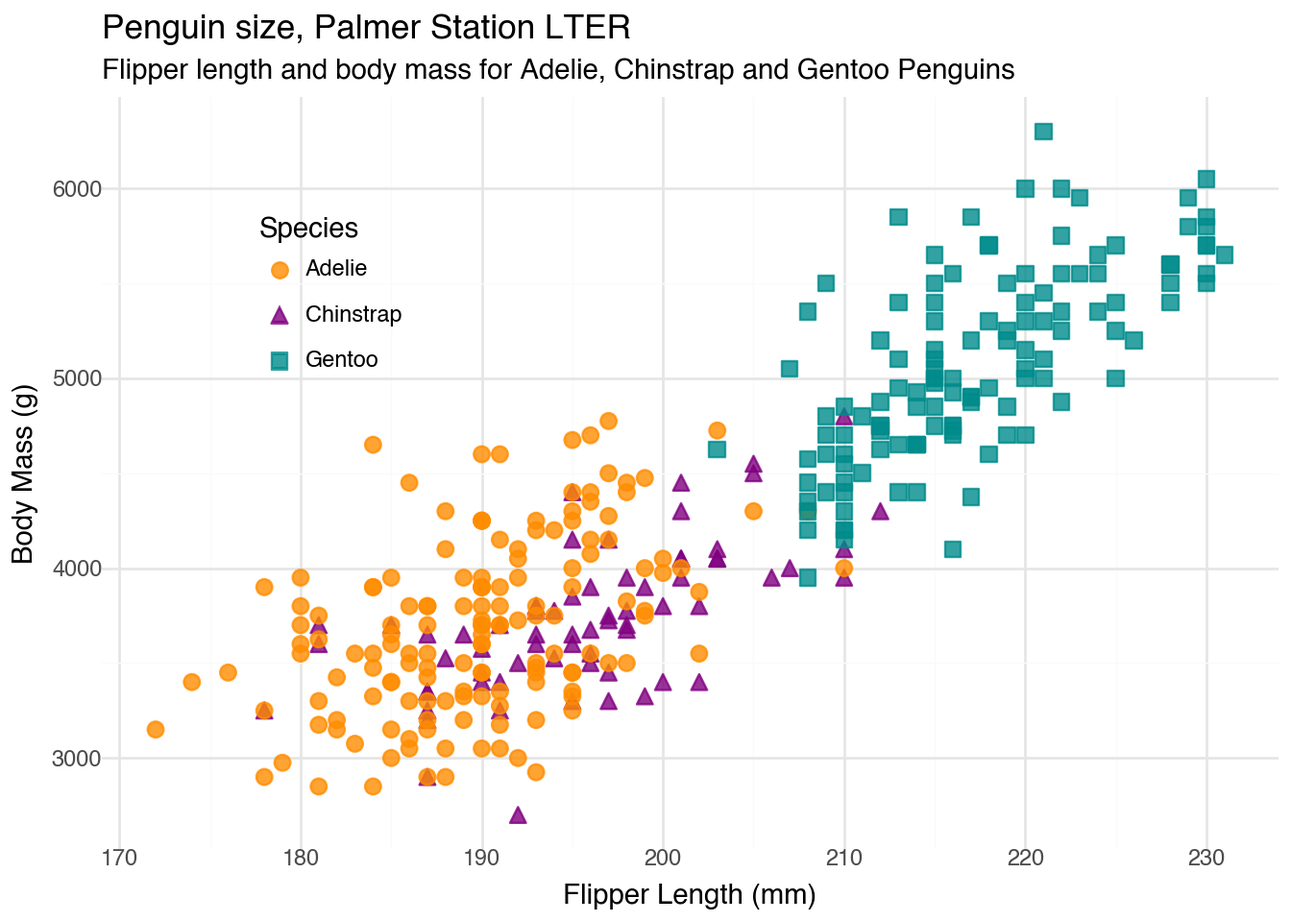
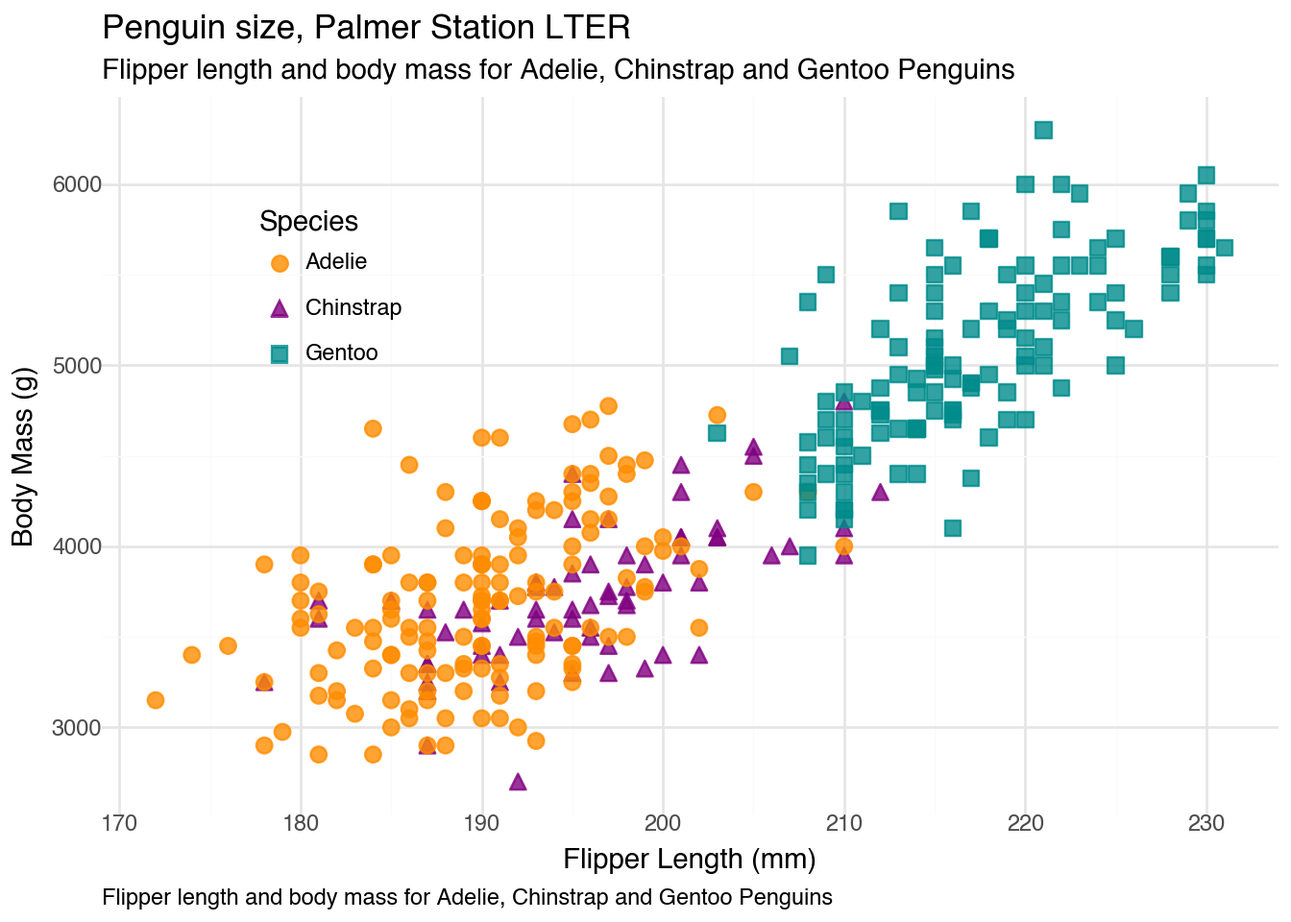
add caption

diff --git a/2025-04-15/pt_2025-04-15.html b/2025-04-15/pt_2025-04-15.html
@@ -117,7 +117,7 @@ pre > code.sourceCode > span > a:first-child::before { text-decoration: underlin
 </section>
 <section id="set-up" class="level2">
 <h2 class="anchored" data-anchor-id="set-up">Set up</h2>
-<div id="6e7057f7" class="cell" data-execution_count="1">
+<div id="fecdaa7f" class="cell" data-execution_count="1">
 <div class="sourceCode cell-code" id="cb1"><pre class="sourceCode python code-with-copy"><code class="sourceCode python"><span id="cb1-1"><a href="#cb1-1" aria-hidden="true" tabindex="-1"></a><span class="co"># import required libraries</span></span>
 <span id="cb1-2"><a href="#cb1-2" aria-hidden="true" tabindex="-1"></a><span class="im">import</span> os</span>
 <span id="cb1-3"><a href="#cb1-3" aria-hidden="true" tabindex="-1"></a><span class="im">import</span> PyDyTuesday</span>
@@ -140,7 +140,7 @@ pre > code.sourceCode > span > a:first-child::before { text-decoration: underlin
 <li><code>readme.md</code>: README file with information about this week’s data.</li>
 </ul>
 <p>The data dictionary is located <a href="https://github.com/rfordatascience/tidytuesday/blob/main/data/2025/2025-04-15/readme.md#data-dictionary">here</a></p>
-<div id="14fa687f" class="cell" data-execution_count="2">
+<div id="114e1dc4" class="cell" data-execution_count="2">
 <div class="sourceCode cell-code" id="cb2"><pre class="sourceCode python code-with-copy"><code class="sourceCode python"><span id="cb2-1"><a href="#cb2-1" aria-hidden="true" tabindex="-1"></a><span class="co"># Download files from the week, which you can then read in locally</span></span>
 <span id="cb2-2"><a href="#cb2-2" aria-hidden="true" tabindex="-1"></a>PyDyTuesday.get_date(<span class="st">'2025-04-15'</span>)</span>
 <span id="cb2-3"><a href="#cb2-3" aria-hidden="true" tabindex="-1"></a></span>
@@ -155,59 +155,59 @@ readme.md downloaded</code></pre>
 </div>
 </div>
 <p>Let’s take a peak at <code>penguins.csv</code>:</p>
-<div id="07315d5a" class="cell" data-execution_count="3">
+<div id="cec2d9a2" class="cell" data-execution_count="3">
 <div class="sourceCode cell-code" id="cb4"><pre class="sourceCode python code-with-copy"><code class="sourceCode python"><span id="cb4-1"><a href="#cb4-1" aria-hidden="true" tabindex="-1"></a>(</span>
 <span id="cb4-2"><a href="#cb4-2" aria-hidden="true" tabindex="-1"></a>    GT(df.head())</span>
 <span id="cb4-3"><a href="#cb4-3" aria-hidden="true" tabindex="-1"></a>    .tab_header(title<span class="op">=</span><span class="st">"Penguins"</span>)</span>
 <span id="cb4-4"><a href="#cb4-4" aria-hidden="true" tabindex="-1"></a>    .fmt_number(columns<span class="op">=</span>[<span class="st">"bill_len"</span>, <span class="st">"bill_dep"</span>, <span class="st">"flipper_len"</span>])</span>
 <span id="cb4-5"><a href="#cb4-5" aria-hidden="true" tabindex="-1"></a>)</span></code><button title="Copy to Clipboard" class="code-copy-button"><i class="bi"></i></button></pre></div>
 <div class="cell-output cell-output-display" data-execution_count="8">
-<div id="tfqahhyhnj" style="padding-left:0px;padding-right:0px;padding-top:10px;padding-bottom:10px;overflow-x:auto;overflow-y:auto;width:auto;height:auto;">
+<div id="kyfgjkrdvd" style="padding-left:0px;padding-right:0px;padding-top:10px;padding-bottom:10px;overflow-x:auto;overflow-y:auto;width:auto;height:auto;">
 <style>
-#tfqahhyhnj table {
+#kyfgjkrdvd table {
           font-family: -apple-system, BlinkMacSystemFont, 'Segoe UI', Roboto, Oxygen, Ubuntu, Cantarell, 'Helvetica Neue', 'Fira Sans', 'Droid Sans', Arial, sans-serif;
           -webkit-font-smoothing: antialiased;
           -moz-osx-font-smoothing: grayscale;
         }
 
-#tfqahhyhnj thead, tbody, tfoot, tr, td, th { border-style: none; }
+#kyfgjkrdvd thead, tbody, tfoot, tr, td, th { border-style: none; }
  tr { background-color: transparent; }
-#tfqahhyhnj p { margin: 0; padding: 0; }
- #tfqahhyhnj .gt_table { display: table; border-collapse: collapse; line-height: normal; margin-left: auto; margin-right: auto; color: #333333; font-size: 16px; font-weight: normal; font-style: normal; background-color: #FFFFFF; width: auto; border-top-style: solid; border-top-width: 2px; border-top-color: #A8A8A8; border-right-style: none; border-right-width: 2px; border-right-color: #D3D3D3; border-bottom-style: solid; border-bottom-width: 2px; border-bottom-color: #A8A8A8; border-left-style: none; border-left-width: 2px; border-left-color: #D3D3D3; }
- #tfqahhyhnj .gt_caption { padding-top: 4px; padding-bottom: 4px; }
- #tfqahhyhnj .gt_title { color: #333333; font-size: 125%; font-weight: initial; padding-top: 4px; padding-bottom: 4px; padding-left: 5px; padding-right: 5px; border-bottom-color: #FFFFFF; border-bottom-width: 0; }
- #tfqahhyhnj .gt_subtitle { color: #333333; font-size: 85%; font-weight: initial; padding-top: 3px; padding-bottom: 5px; padding-left: 5px; padding-right: 5px; border-top-color: #FFFFFF; border-top-width: 0; }
- #tfqahhyhnj .gt_heading { background-color: #FFFFFF; text-align: center; border-bottom-color: #FFFFFF; border-left-style: none; border-left-width: 1px; border-left-color: #D3D3D3; border-right-style: none; border-right-width: 1px; border-right-color: #D3D3D3; }
- #tfqahhyhnj .gt_bottom_border { border-bottom-style: solid; border-bottom-width: 2px; border-bottom-color: #D3D3D3; }
- #tfqahhyhnj .gt_col_headings { border-top-style: solid; border-top-width: 2px; border-top-color: #D3D3D3; border-bottom-style: solid; border-bottom-width: 2px; border-bottom-color: #D3D3D3; border-left-style: none; border-left-width: 1px; border-left-color: #D3D3D3; border-right-style: none; border-right-width: 1px; border-right-color: #D3D3D3; }
- #tfqahhyhnj .gt_col_heading { color: #333333; background-color: #FFFFFF; font-size: 100%; font-weight: normal; text-transform: inherit; border-left-style: none; border-left-width: 1px; border-left-color: #D3D3D3; border-right-style: none; border-right-width: 1px; border-right-color: #D3D3D3; vertical-align: bottom; padding-top: 5px; padding-bottom: 5px; padding-left: 5px; padding-right: 5px; overflow-x: hidden; }
- #tfqahhyhnj .gt_column_spanner_outer { color: #333333; background-color: #FFFFFF; font-size: 100%; font-weight: normal; text-transform: inherit; padding-top: 0; padding-bottom: 0; padding-left: 4px; padding-right: 4px; }
- #tfqahhyhnj .gt_column_spanner_outer:first-child { padding-left: 0; }
- #tfqahhyhnj .gt_column_spanner_outer:last-child { padding-right: 0; }
- #tfqahhyhnj .gt_column_spanner { border-bottom-style: solid; border-bottom-width: 2px; border-bottom-color: #D3D3D3; vertical-align: bottom; padding-top: 5px; padding-bottom: 5px; overflow-x: hidden; display: inline-block; width: 100%; }
- #tfqahhyhnj .gt_spanner_row { border-bottom-style: hidden; }
- #tfqahhyhnj .gt_group_heading { padding-top: 8px; padding-bottom: 8px; padding-left: 5px; padding-right: 5px; color: #333333; background-color: #FFFFFF; font-size: 100%; font-weight: initial; text-transform: inherit; border-top-style: solid; border-top-width: 2px; border-top-color: #D3D3D3; border-bottom-style: solid; border-bottom-width: 2px; border-bottom-color: #D3D3D3; border-left-style: none; border-left-width: 1px; border-left-color: #D3D3D3; border-right-style: none; border-right-width: 1px; border-right-color: #D3D3D3; vertical-align: middle; text-align: left; }
- #tfqahhyhnj .gt_empty_group_heading { padding: 0.5px; color: #333333; background-color: #FFFFFF; font-size: 100%; font-weight: initial; border-top-style: solid; border-top-width: 2px; border-top-color: #D3D3D3; border-bottom-style: solid; border-bottom-width: 2px; border-bottom-color: #D3D3D3; vertical-align: middle; }
- #tfqahhyhnj .gt_from_md> :first-child { margin-top: 0; }
- #tfqahhyhnj .gt_from_md> :last-child { margin-bottom: 0; }
- #tfqahhyhnj .gt_row { padding-top: 8px; padding-bottom: 8px; padding-left: 5px; padding-right: 5px; margin: 10px; border-top-style: solid; border-top-width: 1px; border-top-color: #D3D3D3; border-left-style: none; border-left-width: 1px; border-left-color: #D3D3D3; border-right-style: none; border-right-width: 1px; border-right-color: #D3D3D3; vertical-align: middle; overflow-x: hidden; }
- #tfqahhyhnj .gt_stub { color: #333333; background-color: #FFFFFF; font-size: 100%; font-weight: initial; text-transform: inherit; border-right-style: solid; border-right-width: 2px; border-right-color: #D3D3D3; padding-left: 5px; padding-right: 5px; }
- #tfqahhyhnj .gt_stub_row_group { color: #333333; background-color: #FFFFFF; font-size: 100%; font-weight: initial; text-transform: inherit; border-right-style: solid; border-right-width: 2px; border-right-color: #D3D3D3; padding-left: 5px; padding-right: 5px; vertical-align: top; }
- #tfqahhyhnj .gt_row_group_first td { border-top-width: 2px; }
- #tfqahhyhnj .gt_row_group_first th { border-top-width: 2px; }
- #tfqahhyhnj .gt_striped { background-color: rgba(128,128,128,0.05); }
- #tfqahhyhnj .gt_table_body { border-top-style: solid; border-top-width: 2px; border-top-color: #D3D3D3; border-bottom-style: solid; border-bottom-width: 2px; border-bottom-color: #D3D3D3; }
- #tfqahhyhnj .gt_sourcenotes { color: #333333; background-color: #FFFFFF; border-bottom-style: none; border-bottom-width: 2px; border-bottom-color: #D3D3D3; border-left-style: none; border-left-width: 2px; border-left-color: #D3D3D3; border-right-style: none; border-right-width: 2px; border-right-color: #D3D3D3; }
- #tfqahhyhnj .gt_sourcenote { font-size: 90%; padding-top: 4px; padding-bottom: 4px; padding-left: 5px; padding-right: 5px; text-align: left; }
- #tfqahhyhnj .gt_left { text-align: left; }
- #tfqahhyhnj .gt_center { text-align: center; }
- #tfqahhyhnj .gt_right { text-align: right; font-variant-numeric: tabular-nums; }
- #tfqahhyhnj .gt_font_normal { font-weight: normal; }
- #tfqahhyhnj .gt_font_bold { font-weight: bold; }
- #tfqahhyhnj .gt_font_italic { font-style: italic; }
- #tfqahhyhnj .gt_super { font-size: 65%; }
- #tfqahhyhnj .gt_footnote_marks { font-size: 75%; vertical-align: 0.4em; position: initial; }
- #tfqahhyhnj .gt_asterisk { font-size: 100%; vertical-align: 0; }
+#kyfgjkrdvd p { margin: 0; padding: 0; }
+ #kyfgjkrdvd .gt_table { display: table; border-collapse: collapse; line-height: normal; margin-left: auto; margin-right: auto; color: #333333; font-size: 16px; font-weight: normal; font-style: normal; background-color: #FFFFFF; width: auto; border-top-style: solid; border-top-width: 2px; border-top-color: #A8A8A8; border-right-style: none; border-right-width: 2px; border-right-color: #D3D3D3; border-bottom-style: solid; border-bottom-width: 2px; border-bottom-color: #A8A8A8; border-left-style: none; border-left-width: 2px; border-left-color: #D3D3D3; }
+ #kyfgjkrdvd .gt_caption { padding-top: 4px; padding-bottom: 4px; }
+ #kyfgjkrdvd .gt_title { color: #333333; font-size: 125%; font-weight: initial; padding-top: 4px; padding-bottom: 4px; padding-left: 5px; padding-right: 5px; border-bottom-color: #FFFFFF; border-bottom-width: 0; }
+ #kyfgjkrdvd .gt_subtitle { color: #333333; font-size: 85%; font-weight: initial; padding-top: 3px; padding-bottom: 5px; padding-left: 5px; padding-right: 5px; border-top-color: #FFFFFF; border-top-width: 0; }
+ #kyfgjkrdvd .gt_heading { background-color: #FFFFFF; text-align: center; border-bottom-color: #FFFFFF; border-left-style: none; border-left-width: 1px; border-left-color: #D3D3D3; border-right-style: none; border-right-width: 1px; border-right-color: #D3D3D3; }
+ #kyfgjkrdvd .gt_bottom_border { border-bottom-style: solid; border-bottom-width: 2px; border-bottom-color: #D3D3D3; }
+ #kyfgjkrdvd .gt_col_headings { border-top-style: solid; border-top-width: 2px; border-top-color: #D3D3D3; border-bottom-style: solid; border-bottom-width: 2px; border-bottom-color: #D3D3D3; border-left-style: none; border-left-width: 1px; border-left-color: #D3D3D3; border-right-style: none; border-right-width: 1px; border-right-color: #D3D3D3; }
+ #kyfgjkrdvd .gt_col_heading { color: #333333; background-color: #FFFFFF; font-size: 100%; font-weight: normal; text-transform: inherit; border-left-style: none; border-left-width: 1px; border-left-color: #D3D3D3; border-right-style: none; border-right-width: 1px; border-right-color: #D3D3D3; vertical-align: bottom; padding-top: 5px; padding-bottom: 5px; padding-left: 5px; padding-right: 5px; overflow-x: hidden; }
+ #kyfgjkrdvd .gt_column_spanner_outer { color: #333333; background-color: #FFFFFF; font-size: 100%; font-weight: normal; text-transform: inherit; padding-top: 0; padding-bottom: 0; padding-left: 4px; padding-right: 4px; }
+ #kyfgjkrdvd .gt_column_spanner_outer:first-child { padding-left: 0; }
+ #kyfgjkrdvd .gt_column_spanner_outer:last-child { padding-right: 0; }
+ #kyfgjkrdvd .gt_column_spanner { border-bottom-style: solid; border-bottom-width: 2px; border-bottom-color: #D3D3D3; vertical-align: bottom; padding-top: 5px; padding-bottom: 5px; overflow-x: hidden; display: inline-block; width: 100%; }
+ #kyfgjkrdvd .gt_spanner_row { border-bottom-style: hidden; }
+ #kyfgjkrdvd .gt_group_heading { padding-top: 8px; padding-bottom: 8px; padding-left: 5px; padding-right: 5px; color: #333333; background-color: #FFFFFF; font-size: 100%; font-weight: initial; text-transform: inherit; border-top-style: solid; border-top-width: 2px; border-top-color: #D3D3D3; border-bottom-style: solid; border-bottom-width: 2px; border-bottom-color: #D3D3D3; border-left-style: none; border-left-width: 1px; border-left-color: #D3D3D3; border-right-style: none; border-right-width: 1px; border-right-color: #D3D3D3; vertical-align: middle; text-align: left; }
+ #kyfgjkrdvd .gt_empty_group_heading { padding: 0.5px; color: #333333; background-color: #FFFFFF; font-size: 100%; font-weight: initial; border-top-style: solid; border-top-width: 2px; border-top-color: #D3D3D3; border-bottom-style: solid; border-bottom-width: 2px; border-bottom-color: #D3D3D3; vertical-align: middle; }
+ #kyfgjkrdvd .gt_from_md> :first-child { margin-top: 0; }
+ #kyfgjkrdvd .gt_from_md> :last-child { margin-bottom: 0; }
+ #kyfgjkrdvd .gt_row { padding-top: 8px; padding-bottom: 8px; padding-left: 5px; padding-right: 5px; margin: 10px; border-top-style: solid; border-top-width: 1px; border-top-color: #D3D3D3; border-left-style: none; border-left-width: 1px; border-left-color: #D3D3D3; border-right-style: none; border-right-width: 1px; border-right-color: #D3D3D3; vertical-align: middle; overflow-x: hidden; }
+ #kyfgjkrdvd .gt_stub { color: #333333; background-color: #FFFFFF; font-size: 100%; font-weight: initial; text-transform: inherit; border-right-style: solid; border-right-width: 2px; border-right-color: #D3D3D3; padding-left: 5px; padding-right: 5px; }
+ #kyfgjkrdvd .gt_stub_row_group { color: #333333; background-color: #FFFFFF; font-size: 100%; font-weight: initial; text-transform: inherit; border-right-style: solid; border-right-width: 2px; border-right-color: #D3D3D3; padding-left: 5px; padding-right: 5px; vertical-align: top; }
+ #kyfgjkrdvd .gt_row_group_first td { border-top-width: 2px; }
+ #kyfgjkrdvd .gt_row_group_first th { border-top-width: 2px; }
+ #kyfgjkrdvd .gt_striped { background-color: rgba(128,128,128,0.05); }
+ #kyfgjkrdvd .gt_table_body { border-top-style: solid; border-top-width: 2px; border-top-color: #D3D3D3; border-bottom-style: solid; border-bottom-width: 2px; border-bottom-color: #D3D3D3; }
+ #kyfgjkrdvd .gt_sourcenotes { color: #333333; background-color: #FFFFFF; border-bottom-style: none; border-bottom-width: 2px; border-bottom-color: #D3D3D3; border-left-style: none; border-left-width: 2px; border-left-color: #D3D3D3; border-right-style: none; border-right-width: 2px; border-right-color: #D3D3D3; }
+ #kyfgjkrdvd .gt_sourcenote { font-size: 90%; padding-top: 4px; padding-bottom: 4px; padding-left: 5px; padding-right: 5px; text-align: left; }
+ #kyfgjkrdvd .gt_left { text-align: left; }
+ #kyfgjkrdvd .gt_center { text-align: center; }
+ #kyfgjkrdvd .gt_right { text-align: right; font-variant-numeric: tabular-nums; }
+ #kyfgjkrdvd .gt_font_normal { font-weight: normal; }
+ #kyfgjkrdvd .gt_font_bold { font-weight: bold; }
+ #kyfgjkrdvd .gt_font_italic { font-style: italic; }
+ #kyfgjkrdvd .gt_super { font-size: 65%; }
+ #kyfgjkrdvd .gt_footnote_marks { font-size: 75%; vertical-align: 0.4em; position: initial; }
+ #kyfgjkrdvd .gt_asterisk { font-size: 100%; vertical-align: 0; }
  
 </style>
 
@@ -287,7 +287,7 @@ readme.md downloaded</code></pre>
 </div>
 </div>
 <p>Let’s take a peak at <code>penguins_raw.csv</code></p>
-<div id="d0e51637" class="cell" data-execution_count="4">
+<div id="fc3cb3f3" class="cell" data-execution_count="4">
 <div class="sourceCode cell-code" id="cb5"><pre class="sourceCode python code-with-copy"><code class="sourceCode python"><span id="cb5-1"><a href="#cb5-1" aria-hidden="true" tabindex="-1"></a>(</span>
 <span id="cb5-2"><a href="#cb5-2" aria-hidden="true" tabindex="-1"></a>    GT(df_raw.head())</span>
 <span id="cb5-3"><a href="#cb5-3" aria-hidden="true" tabindex="-1"></a>    .tab_header(title<span class="op">=</span><span class="st">"Penguins Raw"</span>)</span>
@@ -295,52 +295,52 @@ readme.md downloaded</code></pre>
 <span id="cb5-5"><a href="#cb5-5" aria-hidden="true" tabindex="-1"></a>    <span class="co">#.fmt_number(columns=["Cul", "bill_dep", "flipper_len"])</span></span>
 <span id="cb5-6"><a href="#cb5-6" aria-hidden="true" tabindex="-1"></a>)</span></code><button title="Copy to Clipboard" class="code-copy-button"><i class="bi"></i></button></pre></div>
 <div class="cell-output cell-output-display" data-execution_count="9">
-<div id="zumvsxksqj" style="padding-left:0px;padding-right:0px;padding-top:10px;padding-bottom:10px;overflow-x:auto;overflow-y:auto;width:auto;height:auto;">
+<div id="uifhgfacij" style="padding-left:0px;padding-right:0px;padding-top:10px;padding-bottom:10px;overflow-x:auto;overflow-y:auto;width:auto;height:auto;">
 <style>
-#zumvsxksqj table {
+#uifhgfacij table {
           font-family: -apple-system, BlinkMacSystemFont, 'Segoe UI', Roboto, Oxygen, Ubuntu, Cantarell, 'Helvetica Neue', 'Fira Sans', 'Droid Sans', Arial, sans-serif;
           -webkit-font-smoothing: antialiased;
           -moz-osx-font-smoothing: grayscale;
         }
 
-#zumvsxksqj thead, tbody, tfoot, tr, td, th { border-style: none; }
+#uifhgfacij thead, tbody, tfoot, tr, td, th { border-style: none; }
  tr { background-color: transparent; }
-#zumvsxksqj p { margin: 0; padding: 0; }
- #zumvsxksqj .gt_table { display: table; border-collapse: collapse; line-height: normal; margin-left: auto; margin-right: auto; color: #333333; font-size: 16px; font-weight: normal; font-style: normal; background-color: #FFFFFF; width: auto; border-top-style: solid; border-top-width: 2px; border-top-color: #A8A8A8; border-right-style: none; border-right-width: 2px; border-right-color: #D3D3D3; border-bottom-style: solid; border-bottom-width: 2px; border-bottom-color: #A8A8A8; border-left-style: none; border-left-width: 2px; border-left-color: #D3D3D3; }
- #zumvsxksqj .gt_caption { padding-top: 4px; padding-bottom: 4px; }
- #zumvsxksqj .gt_title { color: #333333; font-size: 125%; font-weight: initial; padding-top: 4px; padding-bottom: 4px; padding-left: 5px; padding-right: 5px; border-bottom-color: #FFFFFF; border-bottom-width: 0; }
- #zumvsxksqj .gt_subtitle { color: #333333; font-size: 85%; font-weight: initial; padding-top: 3px; padding-bottom: 5px; padding-left: 5px; padding-right: 5px; border-top-color: #FFFFFF; border-top-width: 0; }
- #zumvsxksqj .gt_heading { background-color: #FFFFFF; text-align: center; border-bottom-color: #FFFFFF; border-left-style: none; border-left-width: 1px; border-left-color: #D3D3D3; border-right-style: none; border-right-width: 1px; border-right-color: #D3D3D3; }
- #zumvsxksqj .gt_bottom_border { border-bottom-style: solid; border-bottom-width: 2px; border-bottom-color: #D3D3D3; }
- #zumvsxksqj .gt_col_headings { border-top-style: solid; border-top-width: 2px; border-top-color: #D3D3D3; border-bottom-style: solid; border-bottom-width: 2px; border-bottom-color: #D3D3D3; border-left-style: none; border-left-width: 1px; border-left-color: #D3D3D3; border-right-style: none; border-right-width: 1px; border-right-color: #D3D3D3; }
- #zumvsxksqj .gt_col_heading { color: #333333; background-color: #FFFFFF; font-size: 100%; font-weight: normal; text-transform: inherit; border-left-style: none; border-left-width: 1px; border-left-color: #D3D3D3; border-right-style: none; border-right-width: 1px; border-right-color: #D3D3D3; vertical-align: bottom; padding-top: 5px; padding-bottom: 5px; padding-left: 5px; padding-right: 5px; overflow-x: hidden; }
- #zumvsxksqj .gt_column_spanner_outer { color: #333333; background-color: #FFFFFF; font-size: 100%; font-weight: normal; text-transform: inherit; padding-top: 0; padding-bottom: 0; padding-left: 4px; padding-right: 4px; }
- #zumvsxksqj .gt_column_spanner_outer:first-child { padding-left: 0; }
- #zumvsxksqj .gt_column_spanner_outer:last-child { padding-right: 0; }
- #zumvsxksqj .gt_column_spanner { border-bottom-style: solid; border-bottom-width: 2px; border-bottom-color: #D3D3D3; vertical-align: bottom; padding-top: 5px; padding-bottom: 5px; overflow-x: hidden; display: inline-block; width: 100%; }
- #zumvsxksqj .gt_spanner_row { border-bottom-style: hidden; }
- #zumvsxksqj .gt_group_heading { padding-top: 8px; padding-bottom: 8px; padding-left: 5px; padding-right: 5px; color: #333333; background-color: #FFFFFF; font-size: 100%; font-weight: initial; text-transform: inherit; border-top-style: solid; border-top-width: 2px; border-top-color: #D3D3D3; border-bottom-style: solid; border-bottom-width: 2px; border-bottom-color: #D3D3D3; border-left-style: none; border-left-width: 1px; border-left-color: #D3D3D3; border-right-style: none; border-right-width: 1px; border-right-color: #D3D3D3; vertical-align: middle; text-align: left; }
- #zumvsxksqj .gt_empty_group_heading { padding: 0.5px; color: #333333; background-color: #FFFFFF; font-size: 100%; font-weight: initial; border-top-style: solid; border-top-width: 2px; border-top-color: #D3D3D3; border-bottom-style: solid; border-bottom-width: 2px; border-bottom-color: #D3D3D3; vertical-align: middle; }
- #zumvsxksqj .gt_from_md> :first-child { margin-top: 0; }
- #zumvsxksqj .gt_from_md> :last-child { margin-bottom: 0; }
- #zumvsxksqj .gt_row { padding-top: 8px; padding-bottom: 8px; padding-left: 5px; padding-right: 5px; margin: 10px; border-top-style: solid; border-top-width: 1px; border-top-color: #D3D3D3; border-left-style: none; border-left-width: 1px; border-left-color: #D3D3D3; border-right-style: none; border-right-width: 1px; border-right-color: #D3D3D3; vertical-align: middle; overflow-x: hidden; }
- #zumvsxksqj .gt_stub { color: #333333; background-color: #FFFFFF; font-size: 100%; font-weight: initial; text-transform: inherit; border-right-style: solid; border-right-width: 2px; border-right-color: #D3D3D3; padding-left: 5px; padding-right: 5px; }
- #zumvsxksqj .gt_stub_row_group { color: #333333; background-color: #FFFFFF; font-size: 100%; font-weight: initial; text-transform: inherit; border-right-style: solid; border-right-width: 2px; border-right-color: #D3D3D3; padding-left: 5px; padding-right: 5px; vertical-align: top; }
- #zumvsxksqj .gt_row_group_first td { border-top-width: 2px; }
- #zumvsxksqj .gt_row_group_first th { border-top-width: 2px; }
- #zumvsxksqj .gt_striped { background-color: rgba(128,128,128,0.05); }
- #zumvsxksqj .gt_table_body { border-top-style: solid; border-top-width: 2px; border-top-color: #D3D3D3; border-bottom-style: solid; border-bottom-width: 2px; border-bottom-color: #D3D3D3; }
- #zumvsxksqj .gt_sourcenotes { color: #333333; background-color: #FFFFFF; border-bottom-style: none; border-bottom-width: 2px; border-bottom-color: #D3D3D3; border-left-style: none; border-left-width: 2px; border-left-color: #D3D3D3; border-right-style: none; border-right-width: 2px; border-right-color: #D3D3D3; }
- #zumvsxksqj .gt_sourcenote { font-size: 90%; padding-top: 4px; padding-bottom: 4px; padding-left: 5px; padding-right: 5px; text-align: left; }
- #zumvsxksqj .gt_left { text-align: left; }
- #zumvsxksqj .gt_center { text-align: center; }
- #zumvsxksqj .gt_right { text-align: right; font-variant-numeric: tabular-nums; }
- #zumvsxksqj .gt_font_normal { font-weight: normal; }
- #zumvsxksqj .gt_font_bold { font-weight: bold; }
- #zumvsxksqj .gt_font_italic { font-style: italic; }
- #zumvsxksqj .gt_super { font-size: 65%; }
- #zumvsxksqj .gt_footnote_marks { font-size: 75%; vertical-align: 0.4em; position: initial; }
- #zumvsxksqj .gt_asterisk { font-size: 100%; vertical-align: 0; }
+#uifhgfacij p { margin: 0; padding: 0; }
+ #uifhgfacij .gt_table { display: table; border-collapse: collapse; line-height: normal; margin-left: auto; margin-right: auto; color: #333333; font-size: 16px; font-weight: normal; font-style: normal; background-color: #FFFFFF; width: auto; border-top-style: solid; border-top-width: 2px; border-top-color: #A8A8A8; border-right-style: none; border-right-width: 2px; border-right-color: #D3D3D3; border-bottom-style: solid; border-bottom-width: 2px; border-bottom-color: #A8A8A8; border-left-style: none; border-left-width: 2px; border-left-color: #D3D3D3; }
+ #uifhgfacij .gt_caption { padding-top: 4px; padding-bottom: 4px; }
+ #uifhgfacij .gt_title { color: #333333; font-size: 125%; font-weight: initial; padding-top: 4px; padding-bottom: 4px; padding-left: 5px; padding-right: 5px; border-bottom-color: #FFFFFF; border-bottom-width: 0; }
+ #uifhgfacij .gt_subtitle { color: #333333; font-size: 85%; font-weight: initial; padding-top: 3px; padding-bottom: 5px; padding-left: 5px; padding-right: 5px; border-top-color: #FFFFFF; border-top-width: 0; }
+ #uifhgfacij .gt_heading { background-color: #FFFFFF; text-align: center; border-bottom-color: #FFFFFF; border-left-style: none; border-left-width: 1px; border-left-color: #D3D3D3; border-right-style: none; border-right-width: 1px; border-right-color: #D3D3D3; }
+ #uifhgfacij .gt_bottom_border { border-bottom-style: solid; border-bottom-width: 2px; border-bottom-color: #D3D3D3; }
+ #uifhgfacij .gt_col_headings { border-top-style: solid; border-top-width: 2px; border-top-color: #D3D3D3; border-bottom-style: solid; border-bottom-width: 2px; border-bottom-color: #D3D3D3; border-left-style: none; border-left-width: 1px; border-left-color: #D3D3D3; border-right-style: none; border-right-width: 1px; border-right-color: #D3D3D3; }
+ #uifhgfacij .gt_col_heading { color: #333333; background-color: #FFFFFF; font-size: 100%; font-weight: normal; text-transform: inherit; border-left-style: none; border-left-width: 1px; border-left-color: #D3D3D3; border-right-style: none; border-right-width: 1px; border-right-color: #D3D3D3; vertical-align: bottom; padding-top: 5px; padding-bottom: 5px; padding-left: 5px; padding-right: 5px; overflow-x: hidden; }
+ #uifhgfacij .gt_column_spanner_outer { color: #333333; background-color: #FFFFFF; font-size: 100%; font-weight: normal; text-transform: inherit; padding-top: 0; padding-bottom: 0; padding-left: 4px; padding-right: 4px; }
+ #uifhgfacij .gt_column_spanner_outer:first-child { padding-left: 0; }
+ #uifhgfacij .gt_column_spanner_outer:last-child { padding-right: 0; }
+ #uifhgfacij .gt_column_spanner { border-bottom-style: solid; border-bottom-width: 2px; border-bottom-color: #D3D3D3; vertical-align: bottom; padding-top: 5px; padding-bottom: 5px; overflow-x: hidden; display: inline-block; width: 100%; }
+ #uifhgfacij .gt_spanner_row { border-bottom-style: hidden; }
+ #uifhgfacij .gt_group_heading { padding-top: 8px; padding-bottom: 8px; padding-left: 5px; padding-right: 5px; color: #333333; background-color: #FFFFFF; font-size: 100%; font-weight: initial; text-transform: inherit; border-top-style: solid; border-top-width: 2px; border-top-color: #D3D3D3; border-bottom-style: solid; border-bottom-width: 2px; border-bottom-color: #D3D3D3; border-left-style: none; border-left-width: 1px; border-left-color: #D3D3D3; border-right-style: none; border-right-width: 1px; border-right-color: #D3D3D3; vertical-align: middle; text-align: left; }
+ #uifhgfacij .gt_empty_group_heading { padding: 0.5px; color: #333333; background-color: #FFFFFF; font-size: 100%; font-weight: initial; border-top-style: solid; border-top-width: 2px; border-top-color: #D3D3D3; border-bottom-style: solid; border-bottom-width: 2px; border-bottom-color: #D3D3D3; vertical-align: middle; }
+ #uifhgfacij .gt_from_md> :first-child { margin-top: 0; }
+ #uifhgfacij .gt_from_md> :last-child { margin-bottom: 0; }
+ #uifhgfacij .gt_row { padding-top: 8px; padding-bottom: 8px; padding-left: 5px; padding-right: 5px; margin: 10px; border-top-style: solid; border-top-width: 1px; border-top-color: #D3D3D3; border-left-style: none; border-left-width: 1px; border-left-color: #D3D3D3; border-right-style: none; border-right-width: 1px; border-right-color: #D3D3D3; vertical-align: middle; overflow-x: hidden; }
+ #uifhgfacij .gt_stub { color: #333333; background-color: #FFFFFF; font-size: 100%; font-weight: initial; text-transform: inherit; border-right-style: solid; border-right-width: 2px; border-right-color: #D3D3D3; padding-left: 5px; padding-right: 5px; }
+ #uifhgfacij .gt_stub_row_group { color: #333333; background-color: #FFFFFF; font-size: 100%; font-weight: initial; text-transform: inherit; border-right-style: solid; border-right-width: 2px; border-right-color: #D3D3D3; padding-left: 5px; padding-right: 5px; vertical-align: top; }
+ #uifhgfacij .gt_row_group_first td { border-top-width: 2px; }
+ #uifhgfacij .gt_row_group_first th { border-top-width: 2px; }
+ #uifhgfacij .gt_striped { background-color: rgba(128,128,128,0.05); }
+ #uifhgfacij .gt_table_body { border-top-style: solid; border-top-width: 2px; border-top-color: #D3D3D3; border-bottom-style: solid; border-bottom-width: 2px; border-bottom-color: #D3D3D3; }
+ #uifhgfacij .gt_sourcenotes { color: #333333; background-color: #FFFFFF; border-bottom-style: none; border-bottom-width: 2px; border-bottom-color: #D3D3D3; border-left-style: none; border-left-width: 2px; border-left-color: #D3D3D3; border-right-style: none; border-right-width: 2px; border-right-color: #D3D3D3; }
+ #uifhgfacij .gt_sourcenote { font-size: 90%; padding-top: 4px; padding-bottom: 4px; padding-left: 5px; padding-right: 5px; text-align: left; }
+ #uifhgfacij .gt_left { text-align: left; }
+ #uifhgfacij .gt_center { text-align: center; }
+ #uifhgfacij .gt_right { text-align: right; font-variant-numeric: tabular-nums; }
+ #uifhgfacij .gt_font_normal { font-weight: normal; }
+ #uifhgfacij .gt_font_bold { font-weight: bold; }
+ #uifhgfacij .gt_font_italic { font-style: italic; }
+ #uifhgfacij .gt_super { font-size: 65%; }
+ #uifhgfacij .gt_footnote_marks { font-size: 75%; vertical-align: 0.4em; position: initial; }
+ #uifhgfacij .gt_asterisk { font-size: 100%; vertical-align: 0; }
  
 </style>
 
@@ -484,7 +484,7 @@ readme.md downloaded</code></pre>
 </figure>
 </div>
 <p>I’ll use <code>plotnine</code> to recreate the plot. The code is shown below.</p>
-<div id="ce34f1e1" class="cell" data-execution_count="5">
+<div id="f7d4b764" class="cell" data-execution_count="5">
 <div class="sourceCode cell-code" id="cb6"><pre class="sourceCode python code-with-copy"><code class="sourceCode python"><span id="cb6-1"><a href="#cb6-1" aria-hidden="true" tabindex="-1"></a><span class="im">from</span> plotnine <span class="im">import</span> <span class="op">*</span></span>
 <span id="cb6-2"><a href="#cb6-2" aria-hidden="true" tabindex="-1"></a></span>
 <span id="cb6-3"><a href="#cb6-3" aria-hidden="true" tabindex="-1"></a><span class="co"># Drop missing values</span></span>
@@ -516,14 +516,18 @@ readme.md downloaded</code></pre>
 <span id="cb6-29"><a href="#cb6-29" aria-hidden="true" tabindex="-1"></a>    <span class="op">+</span> labs(</span>
 <span id="cb6-30"><a href="#cb6-30" aria-hidden="true" tabindex="-1"></a>        title<span class="op">=</span><span class="st">"Penguin size, Palmer Station LTER"</span>,</span>
 <span id="cb6-31"><a href="#cb6-31" aria-hidden="true" tabindex="-1"></a>        subtitle<span class="op">=</span><span class="st">'Flipper length and body mass for Adelie, Chinstrap and Gentoo Penguins'</span>,</span>
-<span id="cb6-32"><a href="#cb6-32" aria-hidden="true" tabindex="-1"></a>        x<span class="op">=</span><span class="st">"Flipper Length (mm)"</span>,</span>
-<span id="cb6-33"><a href="#cb6-33" aria-hidden="true" tabindex="-1"></a>        y<span class="op">=</span><span class="st">"Body Mass (g)"</span>,</span>
-<span id="cb6-34"><a href="#cb6-34" aria-hidden="true" tabindex="-1"></a>        color<span class="op">=</span><span class="st">"Species"</span>,</span>
-<span id="cb6-35"><a href="#cb6-35" aria-hidden="true" tabindex="-1"></a>        shape<span class="op">=</span><span class="st">"Species"</span></span>
-<span id="cb6-36"><a href="#cb6-36" aria-hidden="true" tabindex="-1"></a>    )</span>
-<span id="cb6-37"><a href="#cb6-37" aria-hidden="true" tabindex="-1"></a>    <span class="op">+</span> theme_minimal()</span>
-<span id="cb6-38"><a href="#cb6-38" aria-hidden="true" tabindex="-1"></a>    <span class="op">+</span> theme(legend_position<span class="op">=</span>(<span class="fl">0.15</span>, <span class="fl">0.8</span>))</span>
-<span id="cb6-39"><a href="#cb6-39" aria-hidden="true" tabindex="-1"></a>)</span></code><button title="Copy to Clipboard" class="code-copy-button"><i class="bi"></i></button></pre></div>
+<span id="cb6-32"><a href="#cb6-32" aria-hidden="true" tabindex="-1"></a>        caption<span class="op">=</span><span class="st">'Flipper length and body mass for Adelie, Chinstrap and Gentoo Penguins'</span>,</span>
+<span id="cb6-33"><a href="#cb6-33" aria-hidden="true" tabindex="-1"></a>        x<span class="op">=</span><span class="st">"Flipper Length (mm)"</span>,</span>
+<span id="cb6-34"><a href="#cb6-34" aria-hidden="true" tabindex="-1"></a>        y<span class="op">=</span><span class="st">"Body Mass (g)"</span>,</span>
+<span id="cb6-35"><a href="#cb6-35" aria-hidden="true" tabindex="-1"></a>        color<span class="op">=</span><span class="st">"Species"</span>,</span>
+<span id="cb6-36"><a href="#cb6-36" aria-hidden="true" tabindex="-1"></a>        shape<span class="op">=</span><span class="st">"Species"</span></span>
+<span id="cb6-37"><a href="#cb6-37" aria-hidden="true" tabindex="-1"></a>    )</span>
+<span id="cb6-38"><a href="#cb6-38" aria-hidden="true" tabindex="-1"></a>    <span class="op">+</span> theme_minimal()</span>
+<span id="cb6-39"><a href="#cb6-39" aria-hidden="true" tabindex="-1"></a>    <span class="op">+</span> theme(</span>
+<span id="cb6-40"><a href="#cb6-40" aria-hidden="true" tabindex="-1"></a>        legend_position<span class="op">=</span>(<span class="fl">0.15</span>, <span class="fl">0.8</span>),</span>
+<span id="cb6-41"><a href="#cb6-41" aria-hidden="true" tabindex="-1"></a>        plot_caption<span class="op">=</span>element_text(ha<span class="op">=</span><span class="st">'left'</span>)</span>
+<span id="cb6-42"><a href="#cb6-42" aria-hidden="true" tabindex="-1"></a>    )</span>
+<span id="cb6-43"><a href="#cb6-43" aria-hidden="true" tabindex="-1"></a>)</span></code><button title="Copy to Clipboard" class="code-copy-button"><i class="bi"></i></button></pre></div>
 <div class="cell-output cell-output-display">
 <div>
 <figure class="figure">
